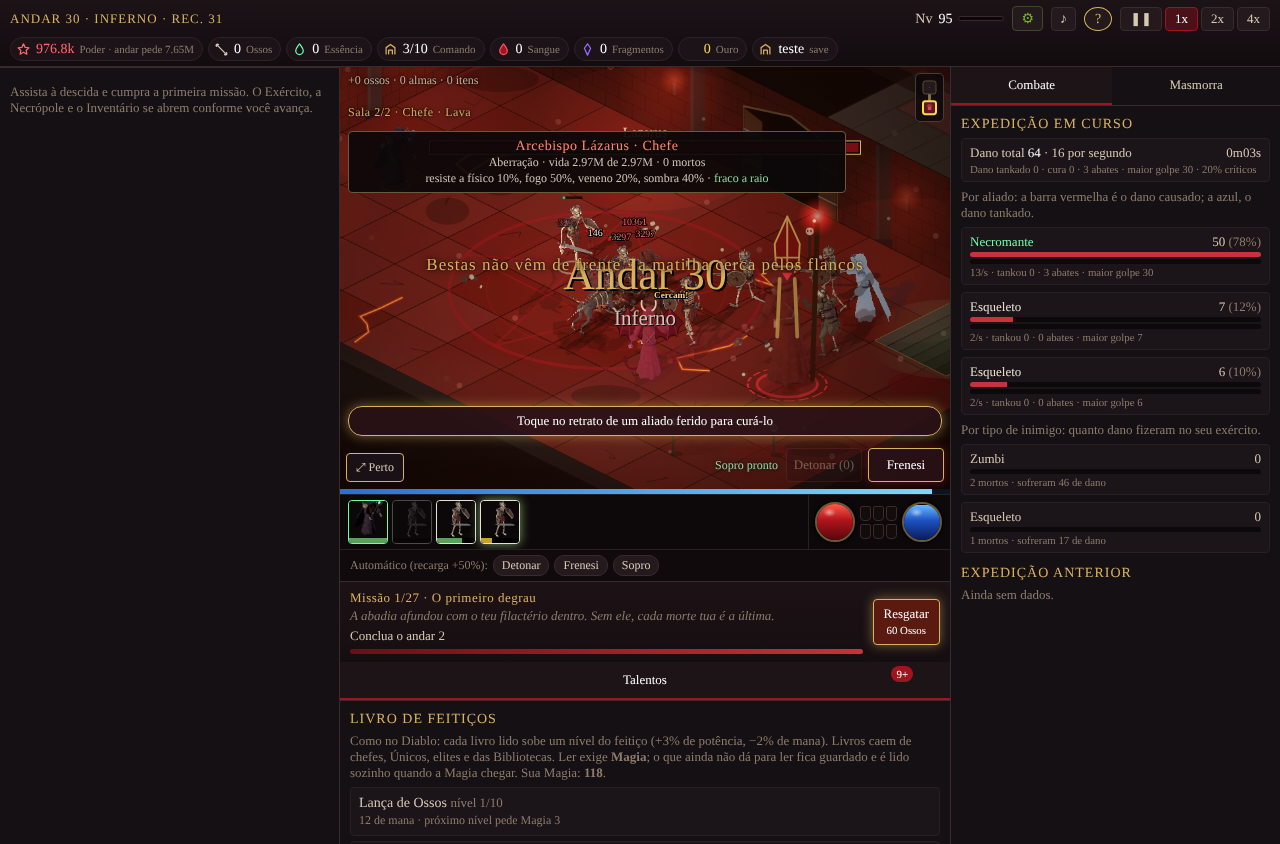
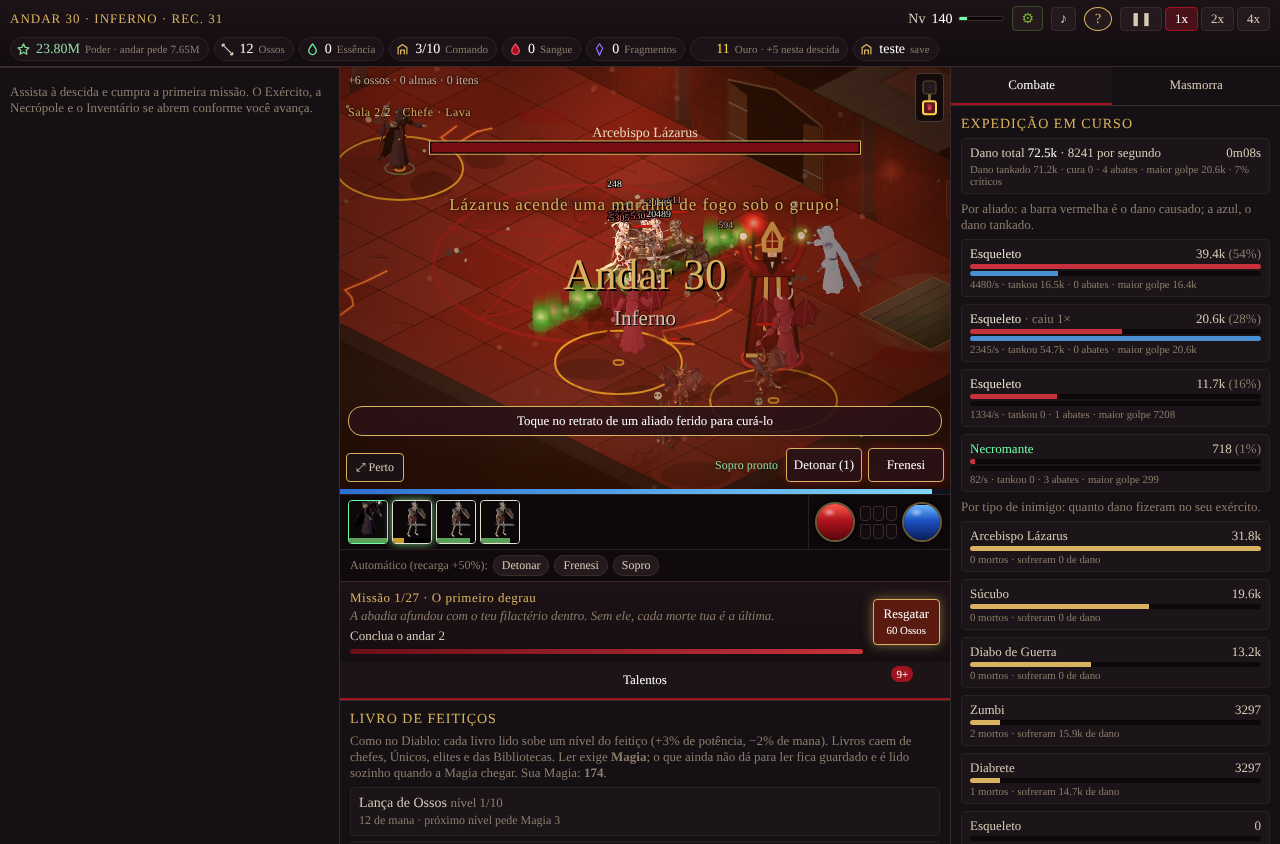
Lázarus em vetor, muralha verde legível, um cartão de escolha por vez; Diablo remedido: 38,7 h
Claude-Session: https://claude.ai/code/session_01Bt9MtRAEw1Tz8zrHpBCPCF

diff --git a/docs/jogo.js b/docs/jogo.js
@@ -46,7 +46,7 @@ function monstro(especie, elite) {
   return (elite && monstros[n + '_elite']) || monstros[n] || monstros.esqueleto;
 }
 function direcao(dx, dy) { return Math.round(((Math.atan2(dx + dy, dx - dy) * 180 / Math.PI + 360) % 360) / 45) % 8; }
-function nomeDoChefe(especie) { return especie === 'AbadessaCosturada' ? 'A Abadessa Costurada' : especie === 'CarcereiroDeAlmas' ? 'O Carcereiro de Almas' : especie.replace(/([a-z])([A-Z])/g, '$1 $2'); }
+function nomeDoChefe(especie) { return especie === 'AbadessaCosturada' ? 'A Abadessa Costurada' : especie === 'CarcereiroDeAlmas' ? 'O Carcereiro de Almas' : especie === 'Lazarus' ? 'Arcebispo Lázarus' : especie === 'Diablo' ? 'Diablo, o Senhor do Terror' : especie.replace(/([a-z])([A-Z])/g, '$1 $2'); }
 function escHtml(t) { return String(t).replace(/[&<>"]/g, (c) => ({ '&': '&amp;', '<': '&lt;', '>': '&gt;', '"': '&quot;' }[c])); }
 function naTela(x, y) { return W(x + so[0], y + so[1]); }
 const rnd = (a, b) => a + Math.random() * (b - a);
@@ -840,6 +840,39 @@ function eventoDeSala(tipo, v, x, y) {
   else if (ts === 6) { aviso('Emboscada vencida · +' + fmt(Math.round(val)) + ' Ossos'); anotar(`Emboscada vencida: +${fmt(Math.round(val))} Ossos${toque ? ' e um item' : ''}.`); }
   else if (ts === 8) { aviso((NOME_SECRETO[sub] || 'Nível secreto') + ': tesouro tomado!'); anotar(`${NOME_SECRETO[sub] || 'Nível secreto'} limpo: +${fmt(Math.round(val))} Ossos, ${sub === 2 ? '3 itens (com chance de Lendário)' : '2 itens (um Raro)'} e Sangue.`); clarao = 0.6; brilho('#ffd84a', 80); }
 }
+// ---- Arcebispo Lázarus: batina longa vermelho-escura, estola dourada, mitra e cajado com globo de sangue; em vetor, origem nos pés ----
+function desenharLazarus(px, py, u, s, alfa) {
+  const t = performance.now() / 1000, anim = String(s.anim || ''), conj = /Conjur/.test(anim), ataca = /Atac/.test(anim), anda = /And/.test(anim);
+  const resp = Math.sin(t * 1.8) * 1.5, balanco = anda ? Math.sin(t * 7) * 3 : 0, lado = necro && necro.x > s.x ? 1 : -1;
+  const P2 = (x, y) => [px + x * u * lado, py + y * u];
+  const forma = (pts, cor, borda) => { ctx.beginPath(); pts.forEach(([x, y], k) => { const [qx, qy] = P2(x, y); if (k) ctx.lineTo(qx, qy); else ctx.moveTo(qx, qy); }); ctx.closePath(); if (cor) { ctx.fillStyle = cor; ctx.fill(); } if (borda) { ctx.strokeStyle = borda; ctx.stroke(); } };
+  const curva = (a, c, b, cor, larg) => { const [ax, ay] = P2(a[0], a[1]), [cx, cy] = P2(c[0], c[1]), [bx, by] = P2(b[0], b[1]); ctx.strokeStyle = cor; ctx.lineWidth = larg * u; ctx.beginPath(); ctx.moveTo(ax, ay); ctx.quadraticCurveTo(cx, cy, bx, by); ctx.stroke(); };
+  ctx.save(); ctx.globalAlpha = alfa; ctx.lineJoin = 'round'; ctx.lineCap = 'round'; ctx.lineWidth = 2;
+  if (alfa >= 1) { ctx.fillStyle = 'rgba(0,0,0,0.45)'; ctx.beginPath(); ctx.ellipse(px, py, 44 * u, 17 * u, 0, 0, 7); ctx.fill(); }
+  const traco = '#140406', ouro = '#d9b25f';
+  const cajX = conj ? 30 : 40, topo = conj ? -196 : -172;                                                         // cajado e o globo de sangue
+  curva([cajX + 2, -2], [cajX, -90], [cajX - 2, topo], '#2a1608', 5);
+  { const [gx, gy] = P2(cajX - 2, topo - 8), rg = (conj ? 26 : 15) * u, g = ctx.createRadialGradient(gx, gy, 0, gx, gy, rg); g.addColorStop(0, `rgba(255,210,190,${(0.9 + 0.1 * Math.sin(t * 5)) * alfa})`); g.addColorStop(0.4, `rgba(225,30,30,${0.7 * alfa})`); g.addColorStop(1, 'rgba(160,0,0,0)');
+    ctx.globalCompositeOperation = 'lighter'; ctx.fillStyle = g; ctx.beginPath(); ctx.arc(gx, gy, rg, 0, 7); ctx.fill(); ctx.globalCompositeOperation = alfa >= 1 ? 'source-over' : 'lighter'; }
+  const gb = ctx.createLinearGradient(px, py - 150 * u, px, py); gb.addColorStop(0, '#8a1218'); gb.addColorStop(1, '#3a060a');
+  forma([[-22, -146 + resp], [22, -146 + resp], [30, -90], [40 + balanco, -4], [14, 0], [-14, 0], [-40 + balanco, -4], [-30, -90]], gb, traco);    // batina
+  ctx.strokeStyle = 'rgba(20,4,6,0.55)'; ctx.lineWidth = 1.5 * u; for (const fx of [-18, -6, 8, 20]) { const [a1, b1] = P2(fx * 0.7, -88), [a2, b2] = P2(fx * 1.5 + balanco, -6); ctx.beginPath(); ctx.moveTo(a1, b1); ctx.lineTo(a2, b2); ctx.stroke(); }
+  forma([[-40 + balanco, -6], [40 + balanco, -6], [40 + balanco, 0], [-40 + balanco, 0]], ouro, null);                                               // barra dourada
+  for (const l of [-1, 1]) forma([[l * 5, -142 + resp], [l * 13, -142 + resp], [l * 15, -40], [l * 7, -40]], ouro, traco);                           // estola
+  forma([[-28, -148 + resp], [28, -148 + resp], [34, -124 + resp], [-34, -124 + resp]], '#5a0a10', traco);                                           // pelerine
+  for (const l of [-1, 1]) {                                                                                                                         // braços de manga larga
+    const om = [l * 26, -138 + resp], mao = conj ? [l * 44, -186 + 3 * Math.sin(t * 16 + l)] : l === 1 ? [cajX - 4, -104] : ataca ? [l * 52, -128] : [l * 30, -84 + resp], cot = [(om[0] + mao[0]) / 2 + l * 12, (om[1] + mao[1]) / 2 + 10];
+    curva(om, cot, mao, '#6a0c12', 15); curva(om, cot, mao, '#8a1218', 7);
+    const [hx, hy] = P2(mao[0], mao[1]); ctx.fillStyle = '#cdb49a'; ctx.beginPath(); ctx.arc(hx, hy, 5 * u, 0, 7); ctx.fill();
+    if (conj || (ataca && l === -1)) { const gm = ctx.createRadialGradient(hx, hy, 0, hx, hy, 20 * u); gm.addColorStop(0, `rgba(210,255,180,${0.9 * alfa})`); gm.addColorStop(0.4, `rgba(60,200,60,${0.55 * alfa})`); gm.addColorStop(1, 'rgba(20,120,20,0)'); ctx.globalCompositeOperation = 'lighter'; ctx.fillStyle = gm; ctx.beginPath(); ctx.arc(hx, hy, 20 * u, 0, 7); ctx.fill(); ctx.globalCompositeOperation = alfa >= 1 ? 'source-over' : 'lighter'; }
+  }
+  forma([[-10, -146 + resp], [-11, -164 + resp], [0, -170 + resp], [11, -164 + resp], [10, -146 + resp]], '#cdb49a', traco);                          // rosto
+  forma([[-7, -150 + resp], [7, -150 + resp], [4, -136 + resp], [0, -130 + resp], [-4, -136 + resp]], '#d8d2c8', traco);                              // barba
+  forma([[-12, -164 + resp], [-13, -180 + resp], [0, -204 + resp], [13, -180 + resp], [12, -164 + resp]], '#7a0c12', ouro);                           // mitra
+  ctx.strokeStyle = ouro; ctx.lineWidth = 2 * u; { const [a1, b1] = P2(0, -200 + resp), [a2, b2] = P2(0, -165 + resp), [a3, b3] = P2(-9, -178 + resp), [a4, b4] = P2(9, -178 + resp); ctx.beginPath(); ctx.moveTo(a1, b1); ctx.lineTo(a2, b2); ctx.moveTo(a3, b3); ctx.lineTo(a4, b4); ctx.stroke(); }
+  ctx.globalCompositeOperation = 'lighter'; ctx.fillStyle = `rgba(255,60,40,${(0.75 + 0.25 * Math.sin(t * 6)) * alfa})`; for (const l of [-1, 1]) { const [ex, ey] = P2(l * 4.5, -158 + resp); ctx.beginPath(); ctx.arc(ex, ey, 1.8 * u, 0, 7); ctx.fill(); }
+  ctx.restore(); ctx.lineWidth = 1;
+}
 // ---- Diablo, o Senhor do Terror: desenhado inteiro em vetor (não há sprite dele). Origem nos pés; u = pixels por unidade do desenho ----
 function desenharDiablo(px, py, u, s, alfa) {
   const t = performance.now() / 1000, anim = String(s.anim || ''), conj = /Conjur/.test(anim), ataca = /Atac/.test(anim), anda = /And/.test(anim);
@@ -878,7 +911,7 @@ function desenharDiablo(px, py, u, s, alfa) {
   ctx.restore(); ctx.lineWidth = 1;
 }
 // ---- silhueta própria dos monstros que ainda usam um sprite emprestado: desenhada por trás (camada 0) e pela frente (camada 1) ----
-const ADORNOS = { Sucubo: 1, Magistrado: 1, CavaleiroNegro: 1, Lazarus: 1 };
+const ADORNOS = { Sucubo: 1, Magistrado: 1, CavaleiroNegro: 1 };
 function adorno(especie, camada, px, py, e, id) {
   const t = performance.now() / 1000 + id * 0.37;
   ctx.save(); ctx.lineJoin = 'round'; ctx.lineCap = 'round';
@@ -1286,13 +1319,13 @@ function desenhar(dt) {
     const idadeM = tempoSim - muralhaFx.t0;
     {
       const forca = Math.min(1, idadeM / 0.35) * Math.min(1, (muralhaFx.dur - idadeM) / 0.6), N = 16, agora = performance.now() / 1000;
-      ctx.save(); ctx.globalCompositeOperation = 'lighter';
+      ctx.save(); ctx.globalCompositeOperation = muralhaFx.ini ? 'source-over' : 'lighter';
       for (let k = 0; k <= N; k++) {
         const f = k / N, [fx, fy] = W(muralhaFx.a[0] + muralhaFx.d[0] * f + muralhaFx.so[0], muralhaFx.a[1] + muralhaFx.d[1] * f + muralhaFx.so[1]);
         const tremula = 0.75 + 0.25 * Math.sin(agora * 9 + k * 1.7), hf = (34 + 14 * Math.sin(agora * 6 + k * 2.3)) * reforco * forca, wf = 13 * reforco;
-        const gl = ctx.createRadialGradient(fx, fy - hf * 0.35, 1, fx, fy - hf * 0.35, hf); gl.addColorStop(0, muralhaFx.ini ? `rgba(200,255,170,${0.75 * forca * tremula})` : `rgba(255,230,140,${0.75 * forca * tremula})`); gl.addColorStop(0.35, muralhaFx.ini ? `rgba(60,200,60,${0.5 * forca * tremula})` : `rgba(255,130,30,${0.5 * forca * tremula})`); gl.addColorStop(1, 'rgba(160,20,0,0)');
+        const gl = ctx.createRadialGradient(fx, fy - hf * 0.35, 1, fx, fy - hf * 0.35, hf); gl.addColorStop(0, muralhaFx.ini ? `rgba(190,255,150,${0.95 * forca * tremula})` : `rgba(255,230,140,${0.75 * forca * tremula})`); gl.addColorStop(0.35, muralhaFx.ini ? `rgba(30,170,40,${0.8 * forca * tremula})` : `rgba(255,130,30,${0.5 * forca * tremula})`); gl.addColorStop(1, 'rgba(160,20,0,0)');
         ctx.fillStyle = gl; ctx.beginPath(); ctx.ellipse(fx, fy - hf * 0.45, wf, hf, 0, 0, 7); ctx.fill();
-        ctx.fillStyle = `rgba(255,120,20,${0.22 * forca})`; ctx.beginPath(); ctx.ellipse(fx, fy, wf * 1.5, wf * 0.7, 0, 0, 7); ctx.fill();
+        ctx.fillStyle = muralhaFx.ini ? `rgba(40,200,60,${0.3 * forca})` : `rgba(255,120,20,${0.22 * forca})`; ctx.beginPath(); ctx.ellipse(fx, fy, wf * 1.5, wf * 0.7, 0, 0, 7); ctx.fill();
       }
       ctx.restore();
     }
@@ -1348,6 +1381,7 @@ function desenhar(dt) {
     const dx0 = Math.round(px - m.pivo[0] * e), dy0 = Math.round(py - (m.H - m.pivo[1]) * e);
     if (!morto && ADORNOS[s.especie]) adorno(s.especie, 0, px, py, e, s.id);
     if (s.especie === 'Diablo' && !morto) desenharDiablo(px, py, reforco, s, 1);
+    else if (s.especie === 'Lazarus' && !morto) desenharLazarus(px, py, reforco, s, 1);
     else if (prov && !(morto && COR_MORTE[s.cond])) {
       if (tinta.width !== m.W || tinta.height !== m.H) { tinta.width = m.W; tinta.height = m.H; }
       tctx.globalCompositeOperation = 'source-over'; tctx.clearRect(0, 0, m.W, m.H); tctx.drawImage(img, sx, sy, m.W, m.H, 0, 0, m.W, m.H);
@@ -1361,7 +1395,8 @@ function desenhar(dt) {
       ctx.drawImage(tinta, 0, 0, m.W, m.H, dx0, dy0, m.W * e, m.H * e);
     } else ctx.drawImage(img, sx, sy, m.W, m.H, dx0, dy0, m.W * e, m.H * e);
     if (!morto && ADORNOS[s.especie]) adorno(s.especie, 1, px, py, e, s.id);
-    if (!morto && s.flash > 0 && s.especie === 'Diablo') { s.flash -= dt; ctx.globalCompositeOperation = 'lighter'; desenharDiablo(px, py, reforco, s, Math.min(1, s.flash * 9) * 0.6); ctx.globalCompositeOperation = 'source-over'; }
+    if (!morto && s.flash > 0 && s.especie === 'Lazarus') { s.flash -= dt; ctx.globalCompositeOperation = 'lighter'; desenharLazarus(px, py, reforco, s, Math.min(1, s.flash * 9) * 0.6); ctx.globalCompositeOperation = 'source-over'; }
+    else if (!morto && s.flash > 0 && s.especie === 'Diablo') { s.flash -= dt; ctx.globalCompositeOperation = 'lighter'; desenharDiablo(px, py, reforco, s, Math.min(1, s.flash * 9) * 0.6); ctx.globalCompositeOperation = 'source-over'; }
     else if (!morto && s.flash > 0) {
       // clarão de impacto: o mesmo quadro somado por cima
       s.flash -= dt; ctx.globalCompositeOperation = 'lighter'; ctx.globalAlpha = Math.min(1, s.flash * 9);

diff --git a/jogo/Web/wwwroot/jogo.js b/jogo/Web/wwwroot/jogo.js
@@ -46,7 +46,7 @@ function monstro(especie, elite) {
   return (elite && monstros[n + '_elite']) || monstros[n] || monstros.esqueleto;
 }
 function direcao(dx, dy) { return Math.round(((Math.atan2(dx + dy, dx - dy) * 180 / Math.PI + 360) % 360) / 45) % 8; }
-function nomeDoChefe(especie) { return especie === 'AbadessaCosturada' ? 'A Abadessa Costurada' : especie === 'CarcereiroDeAlmas' ? 'O Carcereiro de Almas' : especie.replace(/([a-z])([A-Z])/g, '$1 $2'); }
+function nomeDoChefe(especie) { return especie === 'AbadessaCosturada' ? 'A Abadessa Costurada' : especie === 'CarcereiroDeAlmas' ? 'O Carcereiro de Almas' : especie === 'Lazarus' ? 'Arcebispo Lázarus' : especie === 'Diablo' ? 'Diablo, o Senhor do Terror' : especie.replace(/([a-z])([A-Z])/g, '$1 $2'); }
 function escHtml(t) { return String(t).replace(/[&<>"]/g, (c) => ({ '&': '&amp;', '<': '&lt;', '>': '&gt;', '"': '&quot;' }[c])); }
 function naTela(x, y) { return W(x + so[0], y + so[1]); }
 const rnd = (a, b) => a + Math.random() * (b - a);
@@ -840,6 +840,39 @@ function eventoDeSala(tipo, v, x, y) {
   else if (ts === 6) { aviso('Emboscada vencida · +' + fmt(Math.round(val)) + ' Ossos'); anotar(`Emboscada vencida: +${fmt(Math.round(val))} Ossos${toque ? ' e um item' : ''}.`); }
   else if (ts === 8) { aviso((NOME_SECRETO[sub] || 'Nível secreto') + ': tesouro tomado!'); anotar(`${NOME_SECRETO[sub] || 'Nível secreto'} limpo: +${fmt(Math.round(val))} Ossos, ${sub === 2 ? '3 itens (com chance de Lendário)' : '2 itens (um Raro)'} e Sangue.`); clarao = 0.6; brilho('#ffd84a', 80); }
 }
+// ---- Arcebispo Lázarus: batina longa vermelho-escura, estola dourada, mitra e cajado com globo de sangue; em vetor, origem nos pés ----
+function desenharLazarus(px, py, u, s, alfa) {
+  const t = performance.now() / 1000, anim = String(s.anim || ''), conj = /Conjur/.test(anim), ataca = /Atac/.test(anim), anda = /And/.test(anim);
+  const resp = Math.sin(t * 1.8) * 1.5, balanco = anda ? Math.sin(t * 7) * 3 : 0, lado = necro && necro.x > s.x ? 1 : -1;
+  const P2 = (x, y) => [px + x * u * lado, py + y * u];
+  const forma = (pts, cor, borda) => { ctx.beginPath(); pts.forEach(([x, y], k) => { const [qx, qy] = P2(x, y); if (k) ctx.lineTo(qx, qy); else ctx.moveTo(qx, qy); }); ctx.closePath(); if (cor) { ctx.fillStyle = cor; ctx.fill(); } if (borda) { ctx.strokeStyle = borda; ctx.stroke(); } };
+  const curva = (a, c, b, cor, larg) => { const [ax, ay] = P2(a[0], a[1]), [cx, cy] = P2(c[0], c[1]), [bx, by] = P2(b[0], b[1]); ctx.strokeStyle = cor; ctx.lineWidth = larg * u; ctx.beginPath(); ctx.moveTo(ax, ay); ctx.quadraticCurveTo(cx, cy, bx, by); ctx.stroke(); };
+  ctx.save(); ctx.globalAlpha = alfa; ctx.lineJoin = 'round'; ctx.lineCap = 'round'; ctx.lineWidth = 2;
+  if (alfa >= 1) { ctx.fillStyle = 'rgba(0,0,0,0.45)'; ctx.beginPath(); ctx.ellipse(px, py, 44 * u, 17 * u, 0, 0, 7); ctx.fill(); }
+  const traco = '#140406', ouro = '#d9b25f';
+  const cajX = conj ? 30 : 40, topo = conj ? -196 : -172;                                                         // cajado e o globo de sangue
+  curva([cajX + 2, -2], [cajX, -90], [cajX - 2, topo], '#2a1608', 5);
+  { const [gx, gy] = P2(cajX - 2, topo - 8), rg = (conj ? 26 : 15) * u, g = ctx.createRadialGradient(gx, gy, 0, gx, gy, rg); g.addColorStop(0, `rgba(255,210,190,${(0.9 + 0.1 * Math.sin(t * 5)) * alfa})`); g.addColorStop(0.4, `rgba(225,30,30,${0.7 * alfa})`); g.addColorStop(1, 'rgba(160,0,0,0)');
+    ctx.globalCompositeOperation = 'lighter'; ctx.fillStyle = g; ctx.beginPath(); ctx.arc(gx, gy, rg, 0, 7); ctx.fill(); ctx.globalCompositeOperation = alfa >= 1 ? 'source-over' : 'lighter'; }
+  const gb = ctx.createLinearGradient(px, py - 150 * u, px, py); gb.addColorStop(0, '#8a1218'); gb.addColorStop(1, '#3a060a');
+  forma([[-22, -146 + resp], [22, -146 + resp], [30, -90], [40 + balanco, -4], [14, 0], [-14, 0], [-40 + balanco, -4], [-30, -90]], gb, traco);    // batina
+  ctx.strokeStyle = 'rgba(20,4,6,0.55)'; ctx.lineWidth = 1.5 * u; for (const fx of [-18, -6, 8, 20]) { const [a1, b1] = P2(fx * 0.7, -88), [a2, b2] = P2(fx * 1.5 + balanco, -6); ctx.beginPath(); ctx.moveTo(a1, b1); ctx.lineTo(a2, b2); ctx.stroke(); }
+  forma([[-40 + balanco, -6], [40 + balanco, -6], [40 + balanco, 0], [-40 + balanco, 0]], ouro, null);                                               // barra dourada
+  for (const l of [-1, 1]) forma([[l * 5, -142 + resp], [l * 13, -142 + resp], [l * 15, -40], [l * 7, -40]], ouro, traco);                           // estola
+  forma([[-28, -148 + resp], [28, -148 + resp], [34, -124 + resp], [-34, -124 + resp]], '#5a0a10', traco);                                           // pelerine
+  for (const l of [-1, 1]) {                                                                                                                         // braços de manga larga
+    const om = [l * 26, -138 + resp], mao = conj ? [l * 44, -186 + 3 * Math.sin(t * 16 + l)] : l === 1 ? [cajX - 4, -104] : ataca ? [l * 52, -128] : [l * 30, -84 + resp], cot = [(om[0] + mao[0]) / 2 + l * 12, (om[1] + mao[1]) / 2 + 10];
+    curva(om, cot, mao, '#6a0c12', 15); curva(om, cot, mao, '#8a1218', 7);
+    const [hx, hy] = P2(mao[0], mao[1]); ctx.fillStyle = '#cdb49a'; ctx.beginPath(); ctx.arc(hx, hy, 5 * u, 0, 7); ctx.fill();
+    if (conj || (ataca && l === -1)) { const gm = ctx.createRadialGradient(hx, hy, 0, hx, hy, 20 * u); gm.addColorStop(0, `rgba(210,255,180,${0.9 * alfa})`); gm.addColorStop(0.4, `rgba(60,200,60,${0.55 * alfa})`); gm.addColorStop(1, 'rgba(20,120,20,0)'); ctx.globalCompositeOperation = 'lighter'; ctx.fillStyle = gm; ctx.beginPath(); ctx.arc(hx, hy, 20 * u, 0, 7); ctx.fill(); ctx.globalCompositeOperation = alfa >= 1 ? 'source-over' : 'lighter'; }
+  }
+  forma([[-10, -146 + resp], [-11, -164 + resp], [0, -170 + resp], [11, -164 + resp], [10, -146 + resp]], '#cdb49a', traco);                          // rosto
+  forma([[-7, -150 + resp], [7, -150 + resp], [4, -136 + resp], [0, -130 + resp], [-4, -136 + resp]], '#d8d2c8', traco);                              // barba
+  forma([[-12, -164 + resp], [-13, -180 + resp], [0, -204 + resp], [13, -180 + resp], [12, -164 + resp]], '#7a0c12', ouro);                           // mitra
+  ctx.strokeStyle = ouro; ctx.lineWidth = 2 * u; { const [a1, b1] = P2(0, -200 + resp), [a2, b2] = P2(0, -165 + resp), [a3, b3] = P2(-9, -178 + resp), [a4, b4] = P2(9, -178 + resp); ctx.beginPath(); ctx.moveTo(a1, b1); ctx.lineTo(a2, b2); ctx.moveTo(a3, b3); ctx.lineTo(a4, b4); ctx.stroke(); }
+  ctx.globalCompositeOperation = 'lighter'; ctx.fillStyle = `rgba(255,60,40,${(0.75 + 0.25 * Math.sin(t * 6)) * alfa})`; for (const l of [-1, 1]) { const [ex, ey] = P2(l * 4.5, -158 + resp); ctx.beginPath(); ctx.arc(ex, ey, 1.8 * u, 0, 7); ctx.fill(); }
+  ctx.restore(); ctx.lineWidth = 1;
+}
 // ---- Diablo, o Senhor do Terror: desenhado inteiro em vetor (não há sprite dele). Origem nos pés; u = pixels por unidade do desenho ----
 function desenharDiablo(px, py, u, s, alfa) {
   const t = performance.now() / 1000, anim = String(s.anim || ''), conj = /Conjur/.test(anim), ataca = /Atac/.test(anim), anda = /And/.test(anim);
@@ -878,7 +911,7 @@ function desenharDiablo(px, py, u, s, alfa) {
   ctx.restore(); ctx.lineWidth = 1;
 }
 // ---- silhueta própria dos monstros que ainda usam um sprite emprestado: desenhada por trás (camada 0) e pela frente (camada 1) ----
-const ADORNOS = { Sucubo: 1, Magistrado: 1, CavaleiroNegro: 1, Lazarus: 1 };
+const ADORNOS = { Sucubo: 1, Magistrado: 1, CavaleiroNegro: 1 };
 function adorno(especie, camada, px, py, e, id) {
   const t = performance.now() / 1000 + id * 0.37;
   ctx.save(); ctx.lineJoin = 'round'; ctx.lineCap = 'round';
@@ -1286,13 +1319,13 @@ function desenhar(dt) {
     const idadeM = tempoSim - muralhaFx.t0;
     {
       const forca = Math.min(1, idadeM / 0.35) * Math.min(1, (muralhaFx.dur - idadeM) / 0.6), N = 16, agora = performance.now() / 1000;
-      ctx.save(); ctx.globalCompositeOperation = 'lighter';
+      ctx.save(); ctx.globalCompositeOperation = muralhaFx.ini ? 'source-over' : 'lighter';
       for (let k = 0; k <= N; k++) {
         const f = k / N, [fx, fy] = W(muralhaFx.a[0] + muralhaFx.d[0] * f + muralhaFx.so[0], muralhaFx.a[1] + muralhaFx.d[1] * f + muralhaFx.so[1]);
         const tremula = 0.75 + 0.25 * Math.sin(agora * 9 + k * 1.7), hf = (34 + 14 * Math.sin(agora * 6 + k * 2.3)) * reforco * forca, wf = 13 * reforco;
-        const gl = ctx.createRadialGradient(fx, fy - hf * 0.35, 1, fx, fy - hf * 0.35, hf); gl.addColorStop(0, muralhaFx.ini ? `rgba(200,255,170,${0.75 * forca * tremula})` : `rgba(255,230,140,${0.75 * forca * tremula})`); gl.addColorStop(0.35, muralhaFx.ini ? `rgba(60,200,60,${0.5 * forca * tremula})` : `rgba(255,130,30,${0.5 * forca * tremula})`); gl.addColorStop(1, 'rgba(160,20,0,0)');
+        const gl = ctx.createRadialGradient(fx, fy - hf * 0.35, 1, fx, fy - hf * 0.35, hf); gl.addColorStop(0, muralhaFx.ini ? `rgba(190,255,150,${0.95 * forca * tremula})` : `rgba(255,230,140,${0.75 * forca * tremula})`); gl.addColorStop(0.35, muralhaFx.ini ? `rgba(30,170,40,${0.8 * forca * tremula})` : `rgba(255,130,30,${0.5 * forca * tremula})`); gl.addColorStop(1, 'rgba(160,20,0,0)');
         ctx.fillStyle = gl; ctx.beginPath(); ctx.ellipse(fx, fy - hf * 0.45, wf, hf, 0, 0, 7); ctx.fill();
-        ctx.fillStyle = `rgba(255,120,20,${0.22 * forca})`; ctx.beginPath(); ctx.ellipse(fx, fy, wf * 1.5, wf * 0.7, 0, 0, 7); ctx.fill();
+        ctx.fillStyle = muralhaFx.ini ? `rgba(40,200,60,${0.3 * forca})` : `rgba(255,120,20,${0.22 * forca})`; ctx.beginPath(); ctx.ellipse(fx, fy, wf * 1.5, wf * 0.7, 0, 0, 7); ctx.fill();
       }
       ctx.restore();
     }
@@ -1348,6 +1381,7 @@ function desenhar(dt) {
     const dx0 = Math.round(px - m.pivo[0] * e), dy0 = Math.round(py - (m.H - m.pivo[1]) * e);
     if (!morto && ADORNOS[s.especie]) adorno(s.especie, 0, px, py, e, s.id);
     if (s.especie === 'Diablo' && !morto) desenharDiablo(px, py, reforco, s, 1);
+    else if (s.especie === 'Lazarus' && !morto) desenharLazarus(px, py, reforco, s, 1);
     else if (prov && !(morto && COR_MORTE[s.cond])) {
       if (tinta.width !== m.W || tinta.height !== m.H) { tinta.width = m.W; tinta.height = m.H; }
       tctx.globalCompositeOperation = 'source-over'; tctx.clearRect(0, 0, m.W, m.H); tctx.drawImage(img, sx, sy, m.W, m.H, 0, 0, m.W, m.H);
@@ -1361,7 +1395,8 @@ function desenhar(dt) {
       ctx.drawImage(tinta, 0, 0, m.W, m.H, dx0, dy0, m.W * e, m.H * e);
     } else ctx.drawImage(img, sx, sy, m.W, m.H, dx0, dy0, m.W * e, m.H * e);
     if (!morto && ADORNOS[s.especie]) adorno(s.especie, 1, px, py, e, s.id);
-    if (!morto && s.flash > 0 && s.especie === 'Diablo') { s.flash -= dt; ctx.globalCompositeOperation = 'lighter'; desenharDiablo(px, py, reforco, s, Math.min(1, s.flash * 9) * 0.6); ctx.globalCompositeOperation = 'source-over'; }
+    if (!morto && s.flash > 0 && s.especie === 'Lazarus') { s.flash -= dt; ctx.globalCompositeOperation = 'lighter'; desenharLazarus(px, py, reforco, s, Math.min(1, s.flash * 9) * 0.6); ctx.globalCompositeOperation = 'source-over'; }
+    else if (!morto && s.flash > 0 && s.especie === 'Diablo') { s.flash -= dt; ctx.globalCompositeOperation = 'lighter'; desenharDiablo(px, py, reforco, s, Math.min(1, s.flash * 9) * 0.6); ctx.globalCompositeOperation = 'source-over'; }
     else if (!morto && s.flash > 0) {
       // clarão de impacto: o mesmo quadro somado por cima
       s.flash -= dt; ctx.globalCompositeOperation = 'lighter'; ctx.globalAlpha = Math.min(1, s.flash * 9);

diff --git a/docs/index.html b/docs/index.html
@@ -50,6 +50,7 @@
   #ficha b.unico { color:#d9b25f; } #ficha b.campeao { color:#7ab0ff; } #ficha b.chefe { color:#ff8a6a; }
   #ficha .im { color:#ff8a6a; } #ficha .fr { color:#8fd89f; }
   #encruzilhada:not([hidden]):not(.min) ~ #ficha, #bencaos:not([hidden]) ~ #ficha { display:none; }
+  #bencaos:not([hidden]) ~ #encruzilhada { display:none !important; }   /* um cartão de cada vez: a escolha da sala passa na frente do pacto */
   #ficha:not([hidden]) ~ #aviso { top:44%; }
   #b-zoom { position:absolute; left:6px; bottom:12px; padding:6px 9px; font-size:12px; background:#1b1317e6; border-color:var(--ouro); z-index:2; }
   #t-sala { position:absolute; left:8px; top:38px; font-size:12px; color:var(--ouro); text-shadow:0 0 4px #000, 0 0 2px #000; pointer-events:none; letter-spacing:.5px; }
@@ -250,8 +251,8 @@
   <div id="t-sala"></div>
   <div id="poderes"><span id="b-sopro"></span><button id="b-item0" hidden></button><button id="b-item1" hidden></button><button id="b-portal" hidden title="Portal da Cidade: sai com todo o saque e volta a este andar na próxima descida">Portal</button><button id="b-detonar" disabled>Detonar</button><button id="b-frenesi" disabled>Frenesi</button></div>
   <div id="resumo" hidden></div>
-  <div id="encruzilhada" hidden></div>
   <div id="bencaos" hidden></div>
+  <div id="encruzilhada" hidden></div>
   <div id="ficha" hidden></div>
   <div id="aviso"></div>
   <div id="ausente" style="display:none"></div>

diff --git a/jogo/Web/wwwroot/index.html b/jogo/Web/wwwroot/index.html
@@ -50,6 +50,7 @@
   #ficha b.unico { color:#d9b25f; } #ficha b.campeao { color:#7ab0ff; } #ficha b.chefe { color:#ff8a6a; }
   #ficha .im { color:#ff8a6a; } #ficha .fr { color:#8fd89f; }
   #encruzilhada:not([hidden]):not(.min) ~ #ficha, #bencaos:not([hidden]) ~ #ficha { display:none; }
+  #bencaos:not([hidden]) ~ #encruzilhada { display:none !important; }   /* um cartão de cada vez: a escolha da sala passa na frente do pacto */
   #ficha:not([hidden]) ~ #aviso { top:44%; }
   #b-zoom { position:absolute; left:6px; bottom:12px; padding:6px 9px; font-size:12px; background:#1b1317e6; border-color:var(--ouro); z-index:2; }
   #t-sala { position:absolute; left:8px; top:38px; font-size:12px; color:var(--ouro); text-shadow:0 0 4px #000, 0 0 2px #000; pointer-events:none; letter-spacing:.5px; }
@@ -250,8 +251,8 @@
   <div id="t-sala"></div>
   <div id="poderes"><span id="b-sopro"></span><button id="b-item0" hidden></button><button id="b-item1" hidden></button><button id="b-portal" hidden title="Portal da Cidade: sai com todo o saque e volta a este andar na próxima descida">Portal</button><button id="b-detonar" disabled>Detonar</button><button id="b-frenesi" disabled>Frenesi</button></div>
   <div id="resumo" hidden></div>
-  <div id="encruzilhada" hidden></div>
   <div id="bencaos" hidden></div>
+  <div id="encruzilhada" hidden></div>
   <div id="ficha" hidden></div>
   <div id="aviso"></div>
   <div id="ausente" style="display:none"></div>

diff --git a/jogo/PLANO_CICLOS.md b/jogo/PLANO_CICLOS.md
@@ -349,3 +349,4 @@ Dono pediu ciclos a cada 5 minutos.
 181. Arte de Diablo (D3, só tela). O chefe do andar 40 deixou de ser um sprite emprestado ampliado: desenharDiablo() o desenha inteiro em vetor no canvas — tronco vermelho com degradê e abdômen marcado, pernas de casco, braços com garras, cauda, crista de espinhos, ombreiras de osso, cabeça com dois chifres grandes e olhos acesos, sombra e brasa no chão; vira para o lado do necromante; respira parado, alterna as pernas ao andar, estende o braço ao atacar e ergue os dois com um clarão ao conjurar; o clarão de impacto usa o mesmo desenho. O cadáver e o vulto "à espera" ainda usam o sprite antigo. ANEL DO APOCALIPSE: o evento 43 abre no chão um anel de fogo (contorno laranja e branco com 14 labaredas) que cresce até o raio do golpe em 0,5 s e some em 0,8 s. Capturas conferidas: Diablo nítido e reconhecível no computador (modo Perto) e a 390 px (modo Sala) com a ficha de chefe e a barra dele (imagens/diablo.png, diablo_celular.png); do anel só se viu um arco na borda de uma captura — NÃO conferido inteiro. Observado: com os números do atalho de teste (nível 125, exército fraco) o primeiro Apocalipse derruba o grupo todo; na campanha medida ele é vencível (43 h, item 180). teste_web4 sem erros. Núcleo intocado (portão do 180 vale). Publicado 1795767045-93a8.
 182. Missão de cenário nova (Diablo 1, "Poisoned Water Supply"): A FONTE ENVENENADA. No molde do Açougueiro e do Rei Esqueleto: sorteada por save (2 em 3, pelo hash da semente, sem gastar o Rng do andar), EstadoProgresso.MissaoFonte (0 não sorteada, 1 existe, 2 não existe, 3 limpa), sorteada de novo a cada Ascensão. Quando existe, o andar 4 ganha uma sala a mais (TipoSala.FonteEnvenenada = 22): ao entrar, 7 mortos da nascente (zumbis e carniçais, o primeiro de elite) caem sobre o grupo — sem escolha, o jogo ocioso resolve sozinho. Limpa a sala: +120 de ouro, os Ossos de uma emboscada e a Curandeira passa a vender poções 20% mais baratas até o fim da vida (Pocoes.Preco). Eventos 44 (achou a fonte) e SalaResolvida 22; Cfg.FonteAndar/FonteInimigos/FonteDesconto/FonteOuro/ForcarFonte; cheat "fonte". Tela: ícone ♒ no minimapa, aviso e anotação no diário, entrada em "Missões deste save" (pendente e cumprida). Teste novo (151). Portão ausente 9/9 com a sala nova no caminho de 2/3 das campanhas: 48 s por andar, primeira âncora 0,09 h (era 0,07), chefe Ato 1 1,40 h (7 tentativas de 8), andar 15 3,18 h, chefe Ato 2 7,82 h; ativo 0,80/2,04/5,46 h. Conferido: pela ponte, a missão passa a "limpa" no andar 4 numa descida real; o painel a 390 px (imagens/missao_fonte.png); o ícone no minimapa. NÃO conferido por captura: a luta em si nem o aviso da descoberta. Publicado 1795767994-6fe1.
 183. Missão de cenário nova (Diablo 1, "Chamber of Bone"): A CÂMARA DE OSSOS. Sorteada por save (2 em 3, hash da semente com multiplicador próprio), EstadoProgresso.MissaoCamara (0/1/2/3), de novo a cada Ascensão. Quando existe, o andar 7 ganha uma sala selada (TipoSala.CamaraDeOssos = 23) com ESCOLHA (cartão 13): "Romper o selo" ou "Deixar selada"; sem resposta, o necromante só rompe com recorde >= 8 (Cfg.CamaraAbreSozinhoNoRecorde); recusada, ela continua lá na descida seguinte. Rompido o selo: 9 esqueletos e arqueiros, os dois primeiros de elite. Vencida: +200 de ouro, os Ossos de uma emboscada e um LIVRO DE FEITIÇO GARANTIDO — o primeiro dos feitiços só-por-livro (Golem, Muralha de Fogo, Relâmpago em Cadeia) que o jogador ainda não tem; se tem os três, um livro qualquer. O robô da campanha recusa com recorde < 8. Tela: cartão com a fala do Diablo 1, ícone no minimapa, avisos, entrada em "Missões deste save", dica do Ancião, cheat "camara". Teste novo (152): recusar, não abrir sozinho, romper, elites, livro e não repetição. Portão ausente 9/9 com as duas missões novas no caminho: 48 s por andar, chefe Ato 1 1,48 h (7 tentativas de 8), maior espera 0,30 (teto 0,35), andar 15 3,18 h, chefe Ato 2 8,14 h; ativo 0,78/2,11/5,36 h. Capturas conferidas do cartão de escolha no computador e a 390 px (imagens/missao_camara.png). Visto na captura: por trás do cartão aparece o texto de outro cartão (um pacto da Encruzilhada aberto ao mesmo tempo) — sobreposição a tratar. NÃO conferido por captura: a luta e o livro caindo. Publicado 1795791080-80b4.
+184. Acabamento de tela dos chefes finais e dos cartões (núcleo intocado; portão do 183 vale). (1) Um cartão por vez: o cartão de escolha da sala (#bencaos: santuário, Açougueiro, Rei, Câmara) agora esconde o da Encruzilhada enquanto está aberto (ordem dos dois no HTML trocada + regra CSS de irmão); a regra é simples, mas a sobreposição NÃO foi reproduzida de novo em captura para conferir. (2) Arcebispo Lázarus desenhado inteiro em vetor (desenharLazarus): batina longa vermelho-escura com barra e estola douradas, pelerine, rosto com barba, mitra com cruz, olhos em brasa, cajado com globo de sangue; ergue as mãos acesas de verde ao conjurar. Saiu o sprite tingido. Nomes na barra de chefe: "Arcebispo Lázarus" e "Diablo, o Senhor do Terror". (3) A muralha de Lázarus passou a ser desenhada sem mistura aditiva: sobre o chão de lava o "verde" virava amarelo e não se distinguia da muralha do jogador. CONFERIDO por captura: Lázarus nítido com a ficha; a muralha verde sob os esqueletos, com Súcubos aladas ao lado (imagens/lazarus.png, computador); o anel do Apocalipse inteiro em volta de Diablo a 390 px (imagens/apocalipse.png). conf.py agora fecha a ajuda de primeira visita antes da foto. Vistos e não tratados: o título grande do andar pode coincidir com um aviso logo na chegada; um aviso pode ficar por cima do cartão "expedição encerrada". REMEDIDO com as duas missões novas (3 campanhas, sem ascender): Diablo cai em 38,73 h na primeira vida (era 43,07 h antes da Fonte e da Câmara — o livro garantido e as poções baratas ajudam; medição ruidosa); vidas seguintes 14,07 h e 16,93 h. teste_web4 sem erros. Publicado 1795791805-4d37.
